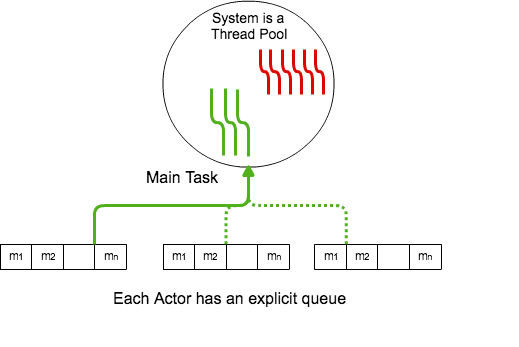
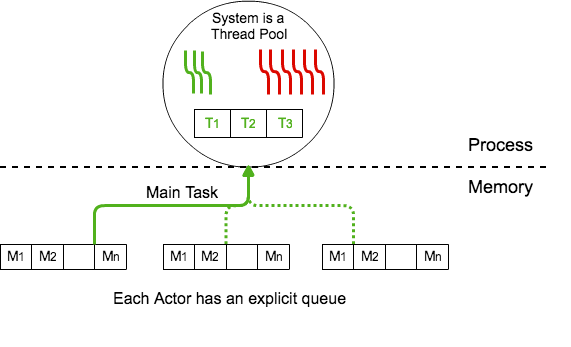
Edited Pictures for section 3

diff --git a/coop.tex b/coop.tex
@@ -3,11 +3,11 @@
 -sequence diagram of what happens in an actor during synchronous and asynchronous method calls.
 
 \subsection{Modeling Language Concepts in the JVM}
-In this section we will investigate the evolution of the scheme used to implement cooperative scheduling in the Java Runtime environment from a very simple approach to using several libraries and features that the latest version of Java provides. The first feature we will use is the Executor interface \cite{execserv} that facilitates parallel programming in Java. The objects that implement this interface provide a queue of tasks and an efficient way of running those tasks on a few threads. Throughout this section we will use the terms executor and thread pool interchangeably to refer to this feature. The second notion used in out solution was introduced starting with Java 8 and it is the construct for a lambda expression.
+In this section we will investigate the evolution of the scheme used to implement cooperative scheduling in the Java Runtime environment from a very simple approach to using several libraries and features that the latest version of Java provides. The first feature we will use is the Executor interface \cite{execserv} that facilitates parallel programming in Java. The objects that implement this interface provide a queue of tasks and an efficient way of running those tasks on a few threads. Throughout this section we will use the terms executor and thread pool interchangeably to refer to this feature. The second notion used in our solution was introduced starting with Java 8 and it is the construct for a lambda expression \cite{lambdas}. This construct allows us to model a method call as a \textbf{Runnable} or \textbf{Callable}, and we will refer to this model as a \textbf{task}. 
 
 
 
-Conceptually an actor has one thread of execution, which means it can run only one method at a time. Practically, however, allocating a real thread for each actor is highly expensive, as we can have a very large number of actors in the modeled application. Very roughly speaking, an executor service in Java provides a queue of tasks and an efficient way of running those tasks on a few threads. Due to the optimizations provided by Java implementations, an executor in principle is the best way to scale to many concurrent tasks. We use the terms executor and thread pool interchangeably, referring to the main interface \cite{execserv} that facilitate parallel programming in Java. 
+%Conceptually an actor has one thread of execution, which means it can run only one method at a time. Practically, however, allocating a real thread for each actor is highly expensive, as we can have a very large number of actors in the modeled application. Very roughly speaking, an executor service in Java provides a queue of tasks and an efficient way of running those tasks on a few threads. Due to the optimizations provided by Java implementations, an executor in principle is the best way to scale to many concurrent tasks. We use the terms executor and thread pool interchangeably, referring to the main interface \cite{execserv} that facilitate parallel programming in Java. 
 
 \paragraph{Every asynchronous call is a thread and each actor has a lock }
 The trivial straightforward approach for implementing cooperative scheduling in Java if for an asynchronous call to generate a new native thread with its own stack and context. We would than model each actor as an object with a lock for which execution threads compete. The disadvantage here is that this lock-per-actor must be checked by every message handler upon start, and freed upon completion. Whenever an await statement occurs the thread would be suspended by the JVM's normal behavior. When the release condition is enabled, a suspended thread would become available and in turn compete with the other available threads in order to execute on the actor. The main performance drawback of this approach is the large number of threads that are created, which restricts any application from having more method calls than the main memory can support live threads. Figure \ref{tp} provides an illustration of this approach.
@@ -15,7 +15,7 @@ The trivial straightforward approach for implementing cooperative scheduling in 
 \begin{figure}
 	\label{tp}
 	\centering
-	\includegraphics[scale=0.5]{mt.png}
+	\includegraphics[scale=0.7]{mt.png}
 	\caption{Basic thread-based approach}
 \end{figure}
 
@@ -26,7 +26,7 @@ To reduce the number of live threads in an application such that it can run inde
 \begin{figure}
 	\label{atp}
 	\centering
-	\includegraphics[scale=0.8]{atp.png}
+	\includegraphics[scale=0.7]{atp.png}
 	\caption{Actor-as-executor approach}
 \end{figure}
 
@@ -39,7 +39,7 @@ When cooperative scheduling occurs, the executing thread will be suspended and t
 \begin{figure}
 	\label{stp}
 	\centering
-	\includegraphics[scale=0.7]{stp.png}
+	\includegraphics[scale=0.5]{stp.png}
 	\caption{System as a thread pool}
 \end{figure}
 
@@ -48,8 +48,14 @@ To eliminate the problem of having live threads when cooperative scheduling occu
 
 
 \paragraph{Synchronous calls context}
-The only limitation Java has now is how avoid thread explosion when a chain of method calls is suspended within an actor, or in simpler terms how to save this call stack without using a thread? To do this we can try to alter the bytecode to resume execution at runtime from a particular point, but we want our approach to be independent of the runtime and be extensible to other programming languages. Therefore we try to approach the problem differently, if we can turn a continuation that does not originate from a stack of calls into a task, is it possible to extend this to synchronous calls as well? We know that this issue arises when methods that contain an "await" statement are called synchronously, but at compile time we can easily identify all of these methods form the ABS code. We can simply mark these methods at compile time and transform them into asynchronous calls followed by an "await" statement on the future generated from the call. Now we can use the same approach for translating these continuations into tasks using lambda expressions and thus eliminating any suspended threads in the system. There remains only one important issue of how these particular continuations are scheduled, but this approach together with the process of translating continuations into tasks with be detailed in Section\ref{comp}. 
+The only limitation Java has now is how avoid thread explosion when a chain of method calls is suspended within an actor, or in simpler terms how to save this call stack without using a thread? To do this we can try to alter the bytecode to resume execution at runtime from a particular point, but we want our approach to be independent of the runtime and be extensible to other programming languages. Therefore we try to approach the problem differently, if we can turn a continuation that does not originate from a stack of calls into a task, is it possible to extend this to synchronous calls as well? We know that this issue arises when methods that contain an "await" statement are called synchronously, but at compile time we can easily identify all of these methods form the ABS code. We can simply mark these methods at compile time and transform them into asynchronous calls followed by an "await" statement on the future generated from the call. The model for this final optimized solution is given in Figure \ref{sol} Now we can use the same approach for translating these continuations into tasks using lambda expressions and thus eliminating any suspended threads in the system. There remains only one important issue of how these particular continuations are scheduled, but this approach together with the process of translating continuations into tasks with be detailed in Section\ref{comp}. 
 
+\begin{figure}
+	\label{sol}
+	\centering
+	\includegraphics[scale=0.5]{solution.png}
+	\caption{System as a thread pool}
+\end{figure}
 
 To eliminate the problem of having live threads when cooperative scheduling occurs we can simply use lambda expressions to turn the continuation into a method call and pass its current state as parameters to the method. The problem with this approach is that we cannot pass a state that represents a chain of synchronous calls within the actor that eventually encounters an await. In this particular scenario we would still have to save the call stack as a thread and encounter (although to a smaller extent) the same problem as in the previous paragraph. At most, we can give an increased priority to the suspended threads that save call stacks to execute on actors once they are released.
 
